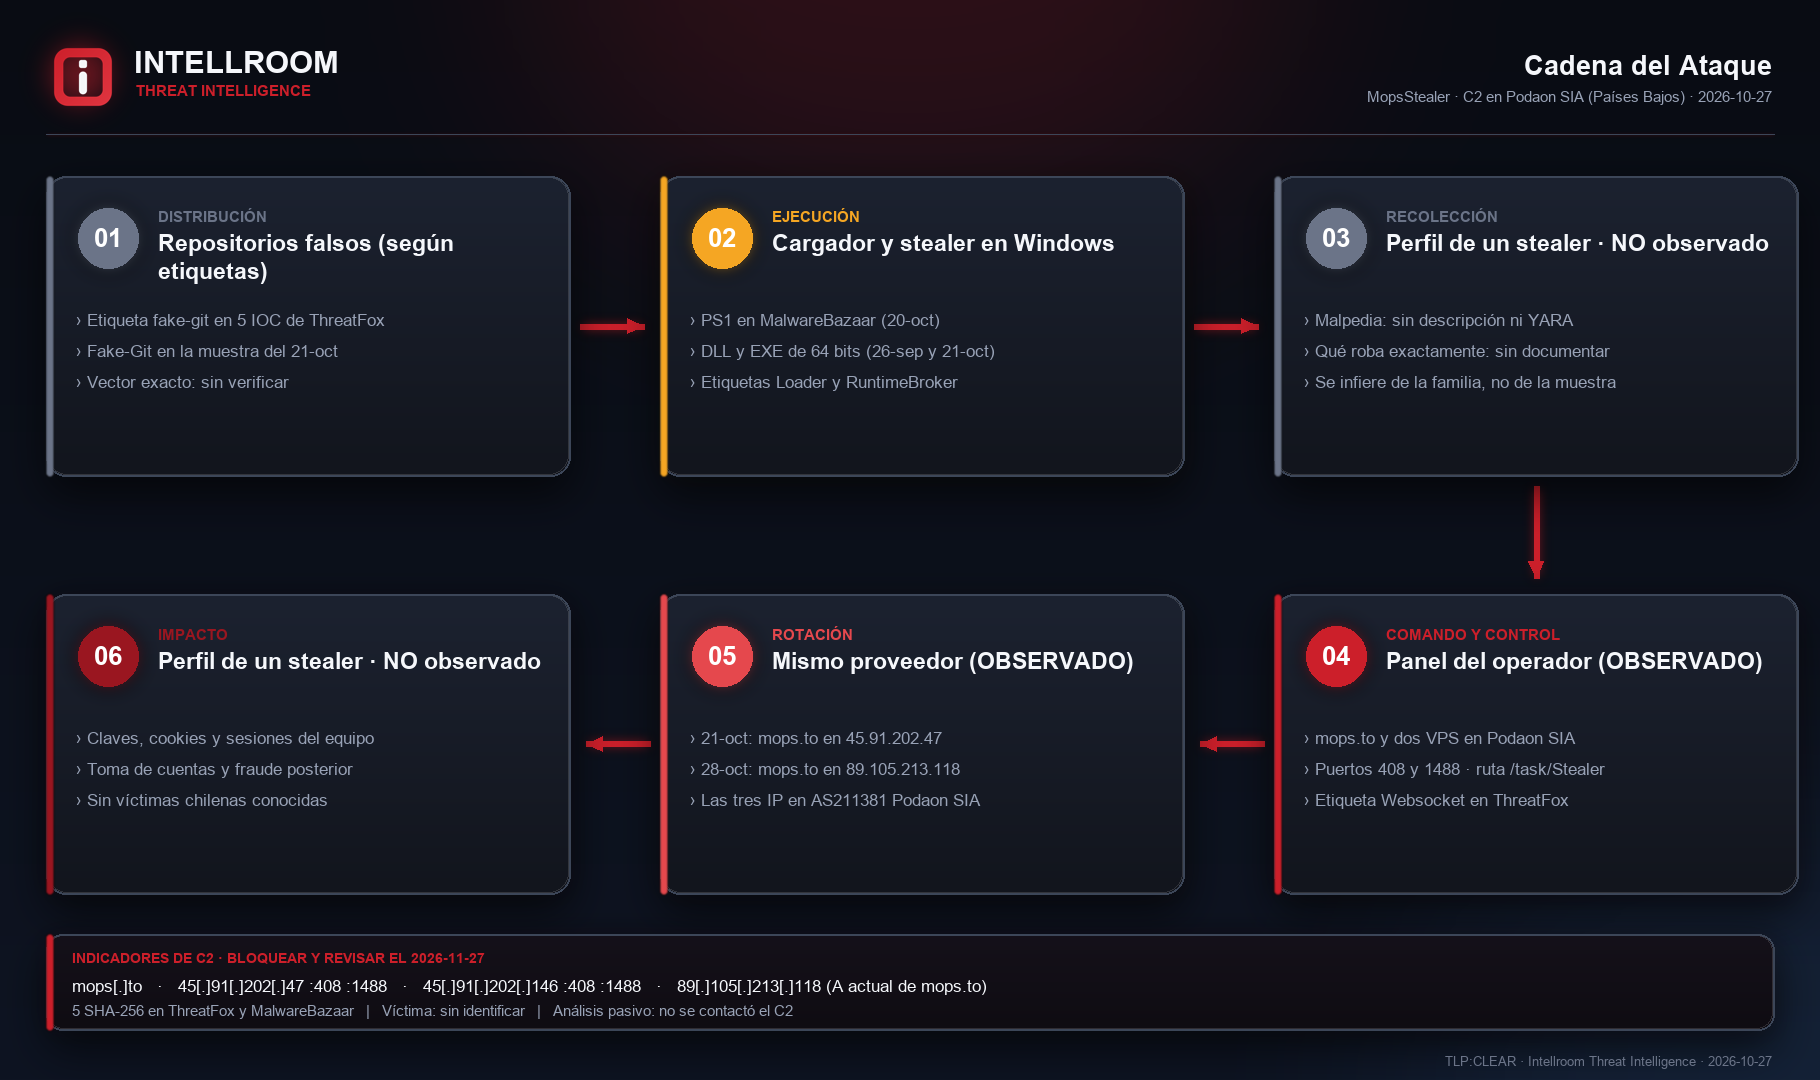
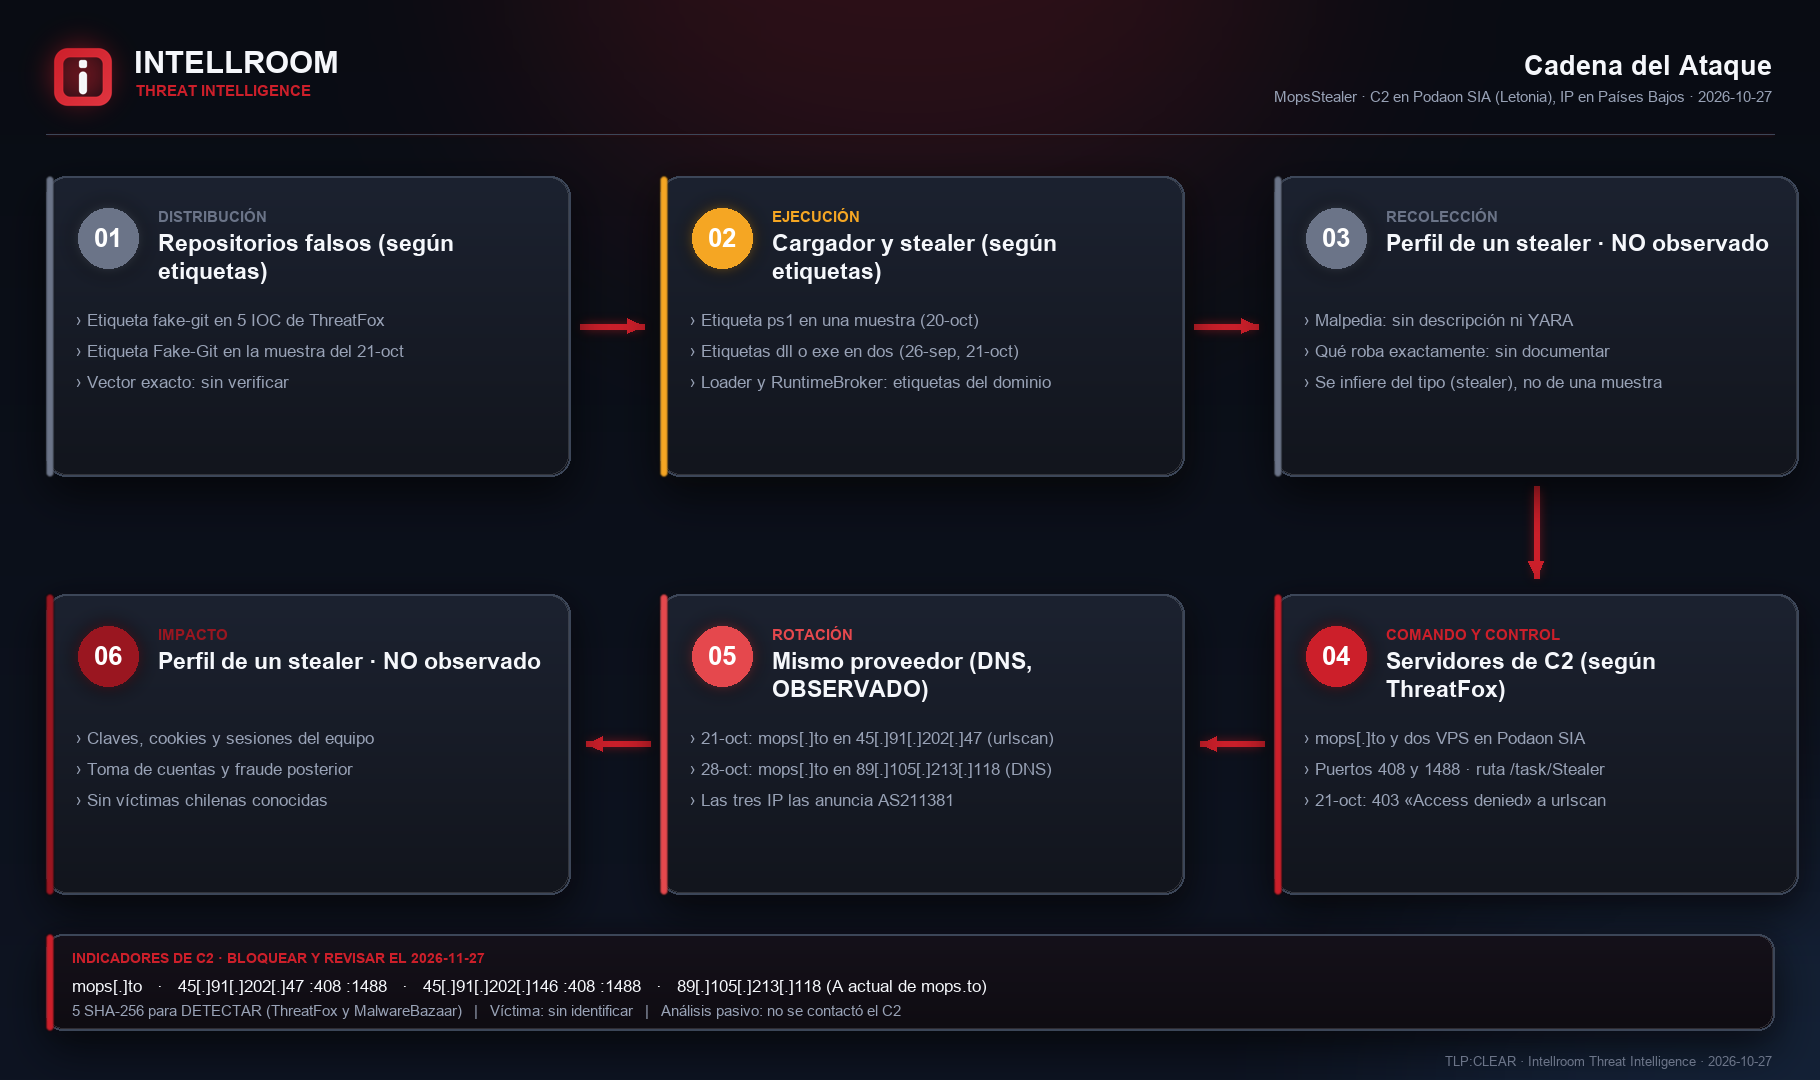
Campaign/MopsStealer_C2_Podaon v2: correcciones tras auditoria independiente (inferencias rotuladas, deteccion DNS como investigar, tipos por etiqueta, Podaon en Letonia)

diff --git a/Campaign/MopsStealer_C2_Podaon/README.md b/Campaign/MopsStealer_C2_Podaon/README.md
@@ -1,21 +1,21 @@
-# MopsStealer: C2 del infostealer en Podaon SIA (Países Bajos)
+# MopsStealer: C2 del infostealer en Podaon SIA (IP en Países Bajos)
 
-**Dominio:** `mops[.]to` · **IP:** `45[.]91[.]202[.]47` y `45[.]91[.]202[.]146` (puertos 408 y 1488), más `89[.]105[.]213[.]118` (hallazgo propio) · **Hosting:** Podaon SIA, AS211381, Oude Meer (NL) · **TLP:CLEAR**
-**Fecha del análisis:** 27-10-2026 · **Origen:** post de X entregado como texto · **Contrastado:** ThreatFox, MalwareBazaar, Malpedia y fuentes pasivas
+**Dominio:** `mops[.]to` · **IP:** `45[.]91[.]202[.]47` y `45[.]91[.]202[.]146` (puertos 408 y 1488), más `89[.]105[.]213[.]118` (hallazgo propio) · **Hosting:** Podaon SIA (empresa de Letonia), AS211381, IP en Oude Meer (NL) · **TLP:CLEAR**
+**Fecha del análisis:** 27-10-2026 · **Origen:** post de X entregado como texto · **Contrastado:** ThreatFox, MalwareBazaar, Malpedia y fuentes pasivas · **Versión:** v2 (28-10-2026), corregida tras una auditoría independiente
 
 **MopsStealer** es una familia nueva de infostealer para Windows: su primera muestra en MalwareBazaar es del 26-09-2026 y su primer indicador en ThreatFox del 18-10-2026. Malpedia la registra **sin descripción ni reglas YARA**, así que casi no hay documentación pública de lo que roba.
 
-Un post de X anuncia **cinco C2 activos** en Podaon SIA: el dominio `mops[.]to` y dos IP, cada una en los puertos **408 y 1488**. Los cinco coinciden uno a uno con ThreatFox, que suma la URL `hxxp://mops[.]to:408/task/Stealer` y tres SHA-256; MalwareBazaar aporta tres muestras (un PowerShell y dos DLL o EXE). En total, **cinco hashes**. Las etiquetas `fake-git` apuntan a **repositorios falsos de software** como vía de entrega: es una etiqueta, no algo verificado aquí.
+Un post de X anuncia **cinco C2 activos** en Podaon SIA: el dominio `mops[.]to` y dos IP, cada una en los puertos **408 y 1488**. Los cinco coinciden con ThreatFox, a la que el propio post enlaza, así que no son dos fuentes independientes. La confianza se apoya en que **tres reportantes distintos** los cargaron en ThreatFox y en que el C2 **respondió 403** a un escaneo de urlscan en `/task/Stealer`. ThreatFox y MalwareBazaar suman **cinco hashes**; sus tipos (PowerShell, DLL o EXE) salen de etiquetas, no del archivo. Las etiquetas `fake-git` apuntan a **repositorios falsos de software** como vía de entrega: no está verificado.
 
-**Hallazgo propio:** el 28-10-2026 a las 01:17 UTC `mops[.]to` ya no apunta a `45[.]91[.]202[.]47` (como el 21-10 según urlscan) sino a **`89[.]105[.]213[.]118`**, en el mismo sistema autónomo AS211381 y con la misma convención de DNS inverso. No figura en ThreatFox: se publica con confianza media.
+**Hallazgo propio:** el 28-10-2026 a las 01:17 UTC `mops[.]to` ya no apunta a `45[.]91[.]202[.]47` (como el 21-10 según urlscan) sino a **`89[.]105[.]213[.]118`**, anunciada por el mismo sistema autónomo AS211381 y con la misma convención de DNS inverso. No está en la familia de ThreatFox: se publica con confianza media. Su WHOIS dice «Avira Private Cloud», un registro que no coincide con el anuncio; no es un falso positivo.
 
 Intellroom **no contactó el C2 ni descargó muestras**. No hay víctimas chilenas conocidas: el post y las fuentes no mencionan Chile ni LATAM.
 
-**Por qué el bloqueo lleva fecha:** la infraestructura ya se movió una vez en una semana. El dominio es dedicado y se bloquea entero; las IP son VPS reasignables y se **revisan el 2026-11-27**.
+**Por qué el bloqueo lleva fecha:** la infraestructura ya se movió una vez en una semana. El dominio es dedicado y se bloquea entero; las IP son VPS reasignables y se **revisan el 2026-11-27**. Una resolución DNS de `mops[.]to` es motivo para **investigar**, no prueba de infección: también la hacen los sandbox, los escáneres de correo y los analistas.
 
 ## Correlación
 
-Misma **familia** que otros casos publicados de infostealers con C2 propio: [Phexia_macOS_Polygon_C2](../Phexia_macOS_Polygon_C2) y [Macfinger_ClickFix_macOS](../Macfinger_ClickFix_macOS). Diferencia: MopsStealer es de Windows y, según las etiquetas, llega por repositorios falsos, no por ClickFix. Es correspondencia de tipo de amenaza, no de identidad.
+Misma **categoría** (infostealers con C2 propio) que otros casos publicados: [Phexia_macOS_Polygon_C2](../Phexia_macOS_Polygon_C2) y [Macfinger_ClickFix_macOS](../Macfinger_ClickFix_macOS). Son familias distintas: MopsStealer es de Windows y, según las etiquetas, llega por repositorios falsos, no por ClickFix. Es correspondencia de tipo de amenaza, no de identidad.
 
 ## Evidencia
 
@@ -33,7 +33,7 @@ Misma **familia** que otros casos publicados de infostealers con C2 propio: [Phe
 
 ## Documentos
 
-- **[`MopsStealer_C2_Podaon_27102026.txt`](MopsStealer_C2_Podaon_27102026.txt)**: ficha completa con resumen, línea de tiempo, lo observado, qué **no** es un IOC, evaluación de la fuente (Admiralty), MITRE ATT&CK verificado, acciones y todo lo que no se pudo verificar.
+- **[`MopsStealer_C2_Podaon_27102026.txt`](MopsStealer_C2_Podaon_27102026.txt)**: ficha completa con resumen, línea de tiempo, lo observado, qué **no** es un IOC, evaluación de la fuente (Admiralty), MITRE ATT&CK (IDs verificados, asignación inferida), acciones, lo que no se pudo verificar y los cambios de la v2.
 - **[`iocs.txt`](iocs.txt)**: solo indicadores, con acción por línea (`[BLOQUEAR]` / `[DETECTAR]` / `[VIGILAR]` / `[NO ES UN IOC]`), defanged.
 - **[`evidencia_recon_27102026.txt`](evidencia_recon_27102026.txt)** y los RDAP de RIPE (`rdap_ripe_*.json`, recortados a las organizaciones): evidencia con hora UTC. Sumas en **[`evidencia.sha256`](evidencia.sha256)**.
 
@@ -41,7 +41,7 @@ Misma **familia** que otros casos publicados de infostealers con C2 propio: [Phe
 
 - **El autor y la fecha del post:** se recibió solo el texto.
 - **Qué roba MopsStealer y cómo habla con el C2:** no hay análisis público y no se ejecutó ninguna muestra.
-- **El tipo de archivo de dos de los cinco hashes:** solo están en ThreatFox.
+- **El tipo real de los cinco archivos:** solo hay etiquetas, y dos hashes no tienen ninguna de tipo.
 - **Si los puertos 408 y 1488 siguen activos** y si `89[.]105[.]213[.]118` sirve hoy el C2: no se contactó.
 - **Víctimas y atribución:** ninguna conocida.
 

diff --git a/README.md b/README.md
@@ -20,7 +20,7 @@ Ordenadas de la más reciente a la más antigua.
 
 ### MopsStealer_C2_Podaon
 
-**2026-10-27** · C2 activos de **MopsStealer**, infostealer nuevo para Windows (MalwareBazaar desde el 26-09-2026, ThreatFox desde el 18-10-2026, Malpedia sin descripción): el dominio `mops[.]to` y `45[.]91[.]202[.]47` y `45[.]91[.]202[.]146` en los puertos 408 y 1488, en Podaon SIA (AS211381, Países Bajos), más cinco SHA-256. Hallazgo propio: `mops[.]to` ya apunta a `89[.]105[.]213[.]118`, en el mismo sistema autónomo. Entrega por repositorios falsos según las etiquetas de abuse.ch. Sin víctimas chilenas conocidas
+**2026-10-27** · C2 activos de **MopsStealer**, infostealer nuevo para Windows (MalwareBazaar desde el 26-09-2026, ThreatFox desde el 18-10-2026, Malpedia sin descripción): el dominio `mops[.]to` y `45[.]91[.]202[.]47` y `45[.]91[.]202[.]146` en los puertos 408 y 1488, en Podaon SIA (empresa de Letonia, AS211381; IP en Países Bajos), más cinco SHA-256. Hallazgo propio: `mops[.]to` ya apunta a `89[.]105[.]213[.]118`, en el mismo sistema autónomo. Entrega por repositorios falsos según las etiquetas de abuse.ch. Sin víctimas chilenas conocidas
 
 [Carpeta](Campaign/MopsStealer_C2_Podaon) · [iocs.txt](Campaign/MopsStealer_C2_Podaon/iocs.txt)
 
